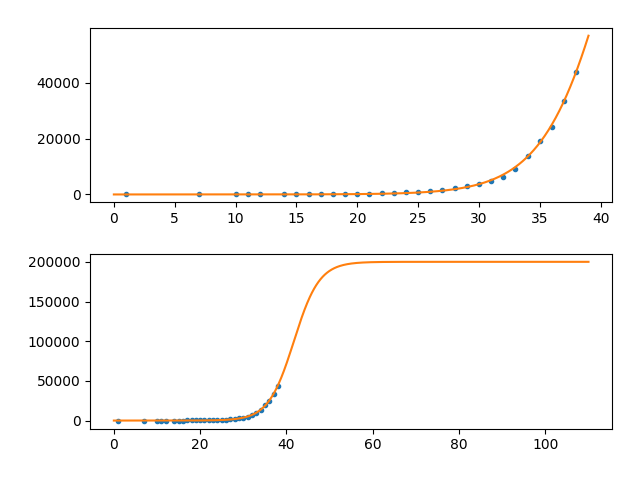
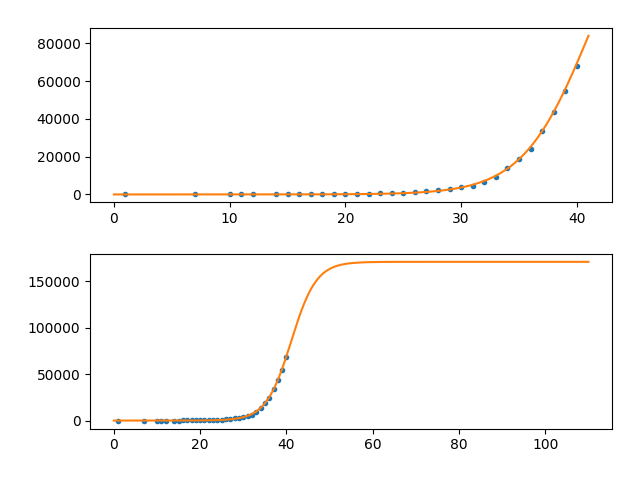
new day

diff --git a/plot.py b/plot.py
@@ -26,7 +26,7 @@ if __name__ == "__main__":
 
         for day in range(10, 190, 10):
             print(f'{day}: {fun(res_robust.x, day)}')
-        Xrange = np.arange(0,39.1,0.1)
+        Xrange = np.arange(0,41.1,0.1)
         ypred = []
         for x in Xrange:
             ypred.append(fun(res_robust.x, x))
